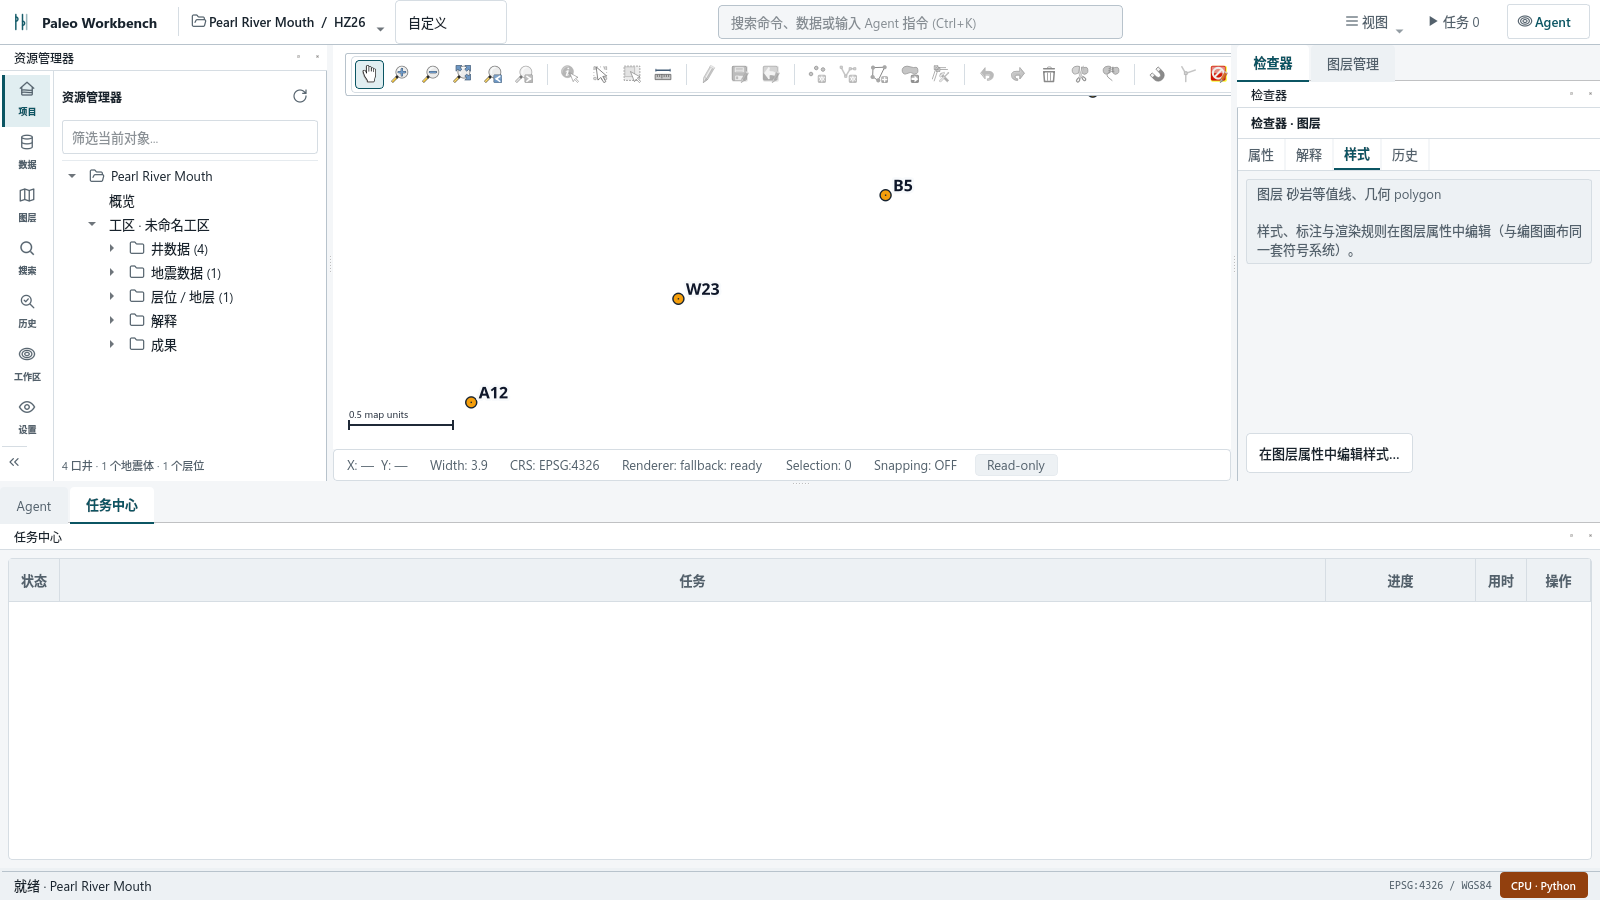
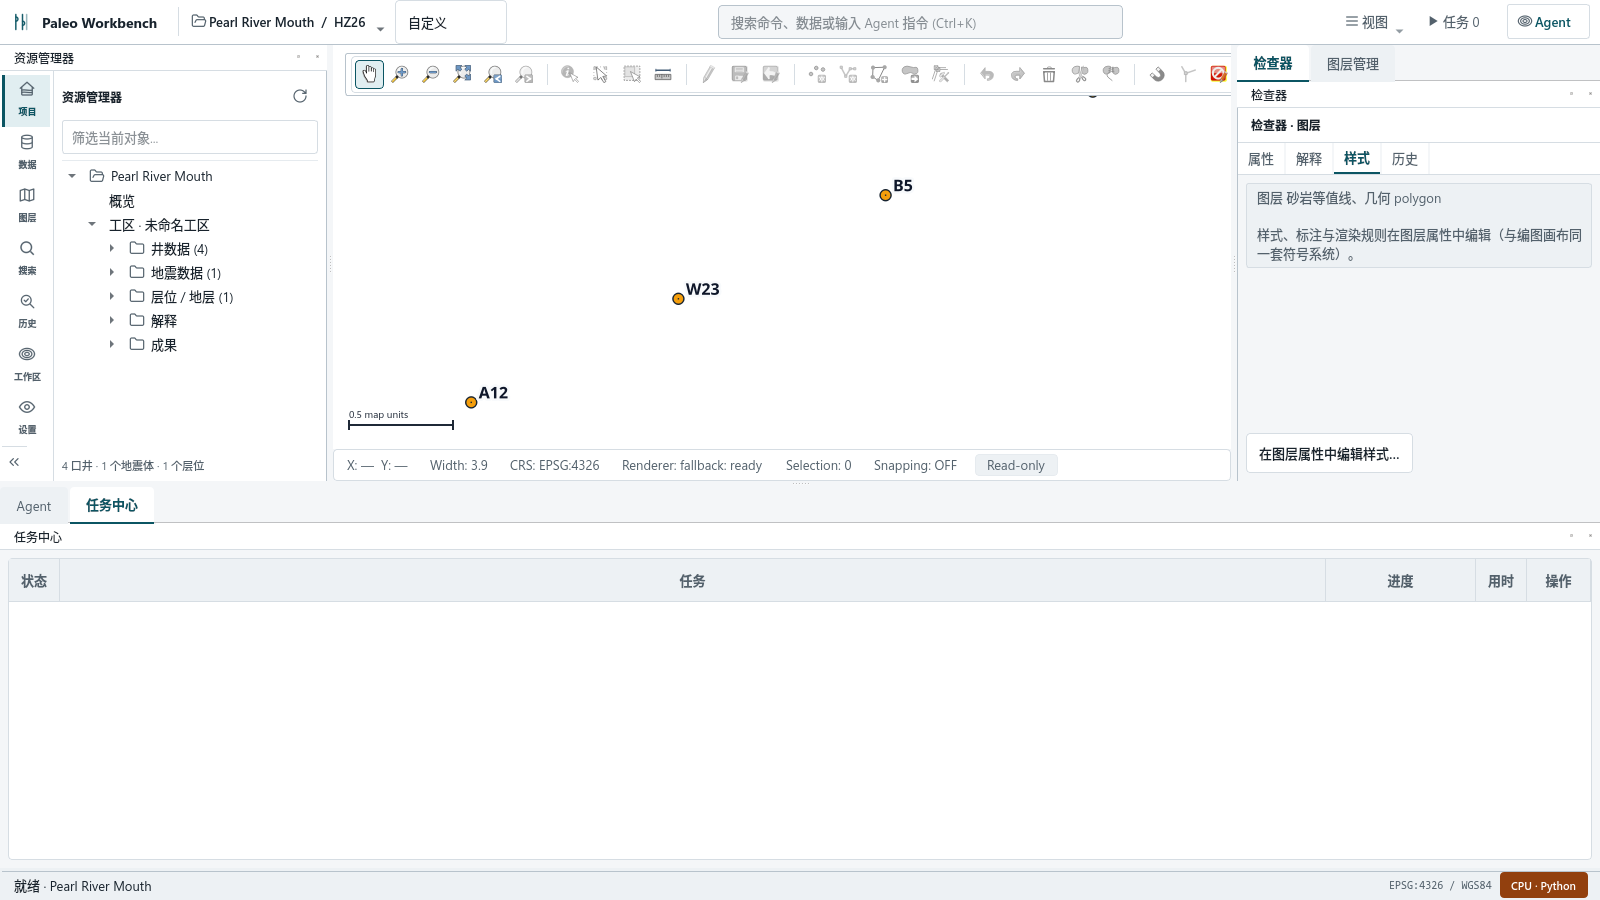
docs(qa): refresh V5 visual evidence post review fixes; close acceptance checklist
- matrix re-captured with --update-baseline (30/30); 12-state evidence
  set refreshed after the density-QSS and review fixes
- verification.md: per-milestone results, final convergence batches,
  environment-only failures re-confirmed against baseline
- target-state.md: all acceptance items checked (evidence-backed)

Changed region(s): [[0.7812, 0.1244, 1.0, 0.3111]]

diff --git a/docs/development/ui-design-system-v5/target-state.md b/docs/development/ui-design-system-v5/target-state.md
@@ -4,120 +4,120 @@ Goal 结束前每项必须真实完成，不留伪完成项。证据列指向 ve
 
 ## A. Token 单一化（U1）
 
-- [ ] A1 `tokens.py:752-754` QSS 语法损坏修复（MenuBar 规则残片）。
-- [ ] A2 新增语义 token：禁用态（BG/TEXT）、degraded 过程态、canvas chrome 组
+- [x] A1 `tokens.py:752-754` QSS 语法损坏修复（MenuBar 规则残片）。
+- [x] A2 新增语义 token：禁用态（BG/TEXT）、degraded 过程态、canvas chrome 组
       （ink/chrome/selection/snap/edit）、chart/map overlay、focus 宽度等，
       三主题各自策展；现有词汇不推翻。
-- [ ] A3 密度访问器：提供 `control_height(density)` / `row_height(density)` /
+- [x] A3 密度访问器：提供 `control_height(density)` / `row_height(density)` /
       `toolbar_height(density)` 运行时访问器，`DENSITY_TOKENS` 仍为唯一真源。
-- [ ] A4 token 卫生 lint：`tests/test_ui_token_hygiene.py` 扫描
+- [x] A4 token 卫生 lint：`tests/test_ui_token_hygiene.py` 扫描
       `paleo_workbench/`（排除 prototypes + 显式 allowlist）禁止新裸 hex
       setStyleSheet / QColor 字面色 / `color: white` 字面量；allowlist 收敛到
       已知必要例外（科学 colormap、引擎语义色）。
-- [ ] A5 `build_qss` 新增组件层规则段（Pwb* objectName），旧规则不删除。
+- [x] A5 `build_qss` 新增组件层规则段（Pwb* objectName），旧规则不删除。
 
 ## B. 通用组件层（U2）— `paleo_workbench/ui/components/`
 
-- [ ] B1 `PwbButton`（variant: primary/secondary/tertiary/danger，对象名映射现有 QSS）。
-- [ ] B2 `PwbToolButton`（icon+text/纯 icon，DPR-safe icon）。
-- [ ] B3 `PwbSplitButton`（动作 + 下拉）。
-- [ ] B4 `PwbSearchBox`（清除按钮 + placeholder，替代 "✕" QLabel）。
-- [ ] B5 `PwbBadge`（tone: neutral/primary/success/warning/error/process）。
-- [ ] B6 `PwbInlineStatus`（icon+text 行内状态）。
-- [ ] B7 `PwbEmptyState` / `PwbErrorState` / `PwbLoadingState`（统一三态 + retry 钩子）。
-- [ ] B8 `PwbProgress`（state-colored chunk，复用任务进度 QSS 词汇）。
-- [ ] B9 `PwbSectionHeader`（统一标题；替换 MapDockTitle 复制 ≥ 20 处）。
-- [ ] B10 `PwbInspectorSection` + `PwbPropertyEditor`（label/value 行、missing 语义）。
-- [ ] B11 `PwbTableView` / `PwbTreeView`（密度感知行高、交替行、选中语义）。
-- [ ] B12 `PwbCommandBar`（context 工具条 + 分隔簇）。
-- [ ] B13 `PwbToast` 非阻塞通知（主窗口叠加，自动消退，不入数据权威）。
-- [ ] B14 form row / unit field 助手。
-- [ ] B15 组件全部 theme-aware（全局 QSS hook，不构造时快照）、density-aware、
+- [x] B1 `PwbButton`（variant: primary/secondary/tertiary/danger，对象名映射现有 QSS）。
+- [x] B2 `PwbToolButton`（icon+text/纯 icon，DPR-safe icon）。
+- [x] B3 `PwbSplitButton`（动作 + 下拉）。
+- [x] B4 `PwbSearchBox`（清除按钮 + placeholder，替代 "✕" QLabel）。
+- [x] B5 `PwbBadge`（tone: neutral/primary/success/warning/error/process）。
+- [x] B6 `PwbInlineStatus`（icon+text 行内状态）。
+- [x] B7 `PwbEmptyState` / `PwbErrorState` / `PwbLoadingState`（统一三态 + retry 钩子）。
+- [x] B8 `PwbProgress`（state-colored chunk，复用任务进度 QSS 词汇）。
+- [x] B9 `PwbSectionHeader`（统一标题；替换 MapDockTitle 复制 ≥ 20 处）。
+- [x] B10 `PwbInspectorSection` + `PwbPropertyEditor`（label/value 行、missing 语义）。
+- [x] B11 `PwbTableView` / `PwbTreeView`（密度感知行高、交替行、选中语义）。
+- [x] B12 `PwbCommandBar`（context 工具条 + 分隔簇）。
+- [x] B13 `PwbToast` 非阻塞通知（主窗口叠加，自动消退，不入数据权威）。
+- [x] B14 form row / unit field 助手。
+- [x] B15 组件全部 theme-aware（全局 QSS hook，不构造时快照）、density-aware、
        keyboard/focus-aware；`tests/test_ui_components.py` 覆盖三主题两密度渲染。
 
 ## C. 页面迁移（U3）
 
-- [ ] C1 geological_modeling_3d_page：43 处 setStyleSheet → 组件/QSS hook；
+- [x] C1 geological_modeling_3d_page：43 处 setStyleSheet → 组件/QSS hook；
        hex 字面色清除。
-- [ ] C2 module_relationship：white×7 清除、radius 对齐 4px、固定 1180px 画布
+- [x] C2 module_relationship：white×7 清除、radius 对齐 4px、固定 1180px 画布
        改为可伸缩（min 尺寸 + scroll）。
-- [ ] C3 project_well_map_page：7 个 hex + pyqtgraph 底色 token 化，dark 可用。
-- [ ] C4 home_page：重复空态 → PwbEmptyState；固定尺寸弹性化。
-- [ ] C5 inspector_panel：14 处内联 → QSS hook/组件；18/22px 控件密度化。
-- [ ] C6 factor_task_panel 复用 TaskPanelBase 布局词汇。
-- [ ] C7 data 家族（data_detail/completeness/onboarding/tag_widgets）→ 组件化。
-- [ ] C8 首页/数据/测井预测/地震预测/层序格架/地层对比/可视化/制备/编图/成图审核/
+- [x] C3 project_well_map_page：7 个 hex + pyqtgraph 底色 token 化，dark 可用。
+- [x] C4 home_page：重复空态 → PwbEmptyState；固定尺寸弹性化。
+- [x] C5 inspector_panel：14 处内联 → QSS hook/组件；18/22px 控件密度化。
+- [x] C6 factor_task_panel 复用 TaskPanelBase 布局词汇。
+- [x] C7 data 家族（data_detail/completeness/onboarding/tag_widgets）→ 组件化。
+- [x] C8 首页/数据/测井预测/地震预测/层序格架/地层对比/可视化/制备/编图/成图审核/
        井震联合/Workstation shell 全部过一遍截图 review（矩阵留档）。
-- [ ] C9 状态缺口：页面具备 loading/error/empty 一致语义（至少 review/sequence/
+- [x] C9 状态缺口：页面具备 loading/error/empty 一致语义（至少 review/sequence/
        preparation/well_seismic_joint 补齐）。
 
 ## D. Dialog / Menu / Table / Inspector（U4）
 
-- [ ] D1 12 个 QDialog 盘点统一：QDialogButtonBox 按钮序、objectName、
+- [x] D1 12 个 QDialog 盘点统一：QDialogButtonBox 按钮序、objectName、
        去重 3 份玻璃拟态 → 统一 dialog chrome。
-- [ ] D2 TrackVisibilityDialog：标准按钮、无 color: white。
-- [ ] D3 破坏性操作确认样式统一（QSS 危险按钮）。
-- [ ] D4 context menu 全部走全局 QMenu QSS（清除 asset_context_menu 局部覆盖）。
-- [ ] D5 表格选择/多选/键盘语义一致（PwbTableView 落地 ≥ 2 处生产表格）。
+- [x] D2 TrackVisibilityDialog：标准按钮、无 color: white。
+- [x] D3 破坏性操作确认样式统一（QSS 危险按钮）。
+- [x] D4 context menu 全部走全局 QMenu QSS（清除 asset_context_menu 局部覆盖）。
+- [x] D5 表格选择/多选/键盘语义一致（PwbTableView 落地 ≥ 2 处生产表格）。
 
 ## E. 宿主匹配（U5）
 
-- [ ] E1 well_log_host / well_section_host 白底 hex → token（style.bind/QSS）。
-- [ ] E2 unified_map_canvas painter 颜色 → palette 感知（per-paint palette_for）。
-- [ ] E3 qgis_stack/display_canvas `#ffe066` → canvas selection token。
-- [ ] E4 降级态统一组件：QGIS bridge 不可用 / welllog 绑定缺失 / 地震 lazy
+- [x] E1 well_log_host / well_section_host 白底 hex → token（style.bind/QSS）。
+- [x] E2 unified_map_canvas painter 颜色 → palette 感知（per-paint palette_for）。
+- [x] E3 qgis_stack/display_canvas `#ffe066` → canvas selection token。
+- [x] E4 降级态统一组件：QGIS bridge 不可用 / welllog 绑定缺失 / 地震 lazy
        使用 PwbErrorState/PwbInlineStatus 语义（保留诚实文本，不再裸 QLabel）。
-- [ ] E5 QGIS 原生边界 ADR：QGIS 内部 chrome 不强行重写（决策记录）。
+- [x] E5 QGIS 原生边界 ADR：QGIS 内部 chrome 不强行重写（决策记录）。
 
 ## F. 专业 UX 增强（U6）— 真功能
 
-- [ ] F1 Command Palette 升级：统一命令注册表（页面/面板/主题/密度/布局 preset/
+- [x] F1 Command Palette 升级：统一命令注册表（页面/面板/主题/密度/布局 preset/
        项目动作），fuzzy 过滤 + 最近使用（QSettings，UI 态非数据权威）+ 快捷键显示。
-- [ ] F2 中央快捷键注册表 `ui/shortcuts.py`：注册/冲突检测/喂给 palette；
+- [x] F2 中央快捷键注册表 `ui/shortcuts.py`：注册/冲突检测/喂给 palette；
        迁移现有散落 QShortcut。
-- [ ] F3 Escape/Enter 语义统一（palette/dialog/busy）。
-- [ ] F4 多显示器恢复健壮性：floating geometry 落在屏幕外时 clamp。
-- [ ] F5 busy/progress/cancel 统一入口（复用 TaskCenter；busy cursor helper）。
+- [x] F3 Escape/Enter 语义统一（palette/dialog/busy）。
+- [x] F4 多显示器恢复健壮性：floating geometry 落在屏幕外时 clamp。
+- [x] F5 busy/progress/cancel 统一入口（复用 TaskCenter；busy cursor helper）。
 
 ## G. Theme / Density / DPI / A11y（U7）
 
-- [ ] G1 构造时 light 快照清除：重灾区文件迁移到 QSS hook 或 style.bind
+- [x] G1 构造时 light 快照清除：重灾区文件迁移到 QSS hook 或 style.bind
        （status_bar/page_placeholder/task_center STATE_COLORS 必改）。
-- [ ] G2 密度运行时切换对 toolbar/control 高度生效（metrics 订阅机制 +
+- [x] G2 密度运行时切换对 toolbar/control 高度生效（metrics 订阅机制 +
        map_edit_toolbar/data_toolbar/map_factor_shelf 迁移）。
-- [ ] G3 截图矩阵：light/dark/high_contrast × compact/comfortable ×
+- [x] G3 截图矩阵：light/dark/high_contrast × compact/comfortable ×
        1180×720 / 1440×900 / 1920×1080 关键页面无 clipping/不可达控件。
-- [ ] G4 HC 模式非颜色信号：badge/状态同时有文字/图标（抽查）。
+- [x] G4 HC 模式非颜色信号：badge/状态同时有文字/图标（抽查）。
 
 ## H. Visual Regression（U8）
 
-- [ ] H1 修复 capture_workstation_screens.py stale hook（process_hub→agent_panel）。
-- [ ] H2 harness：deterministic fixture、page-state driver、矩阵（theme×density×
+- [x] H1 修复 capture_workstation_screens.py stale hook（process_hub→agent_panel）。
+- [x] H2 harness：deterministic fixture、page-state driver、矩阵（theme×density×
        size×page）、动态字段 masking、baseline 目录、diff 报告（像素+结构阈值，
        人工判读不入自动门禁）。
-- [ ] H3 baseline-v5 12 状态 + 迁移后集合入库（visual_qa/，PNG 不塞 git LFS，
+- [x] H3 baseline-v5 12 状态 + 迁移后集合入库（visual_qa/，PNG 不塞 git LFS，
        控制体积或仅留关键证据于 docs/ui-redesign/screenshots）。
-- [ ] H4 QA 报告（docs/development/ui-design-system-v5/qa-report.md）。
+- [x] H4 QA 报告（docs/development/ui-design-system-v5/qa-report.md）。
 
 ## I. 技术债清仓（U9）
 
-- [ ] I1 文本字形图标 8 处 → SVG。
-- [ ] I2 prototypes 注明 NON-PRODUCTION（不移动文件，wheel HTML 资产测试不动）。
-- [ ] I3 死 QSS / 重复尺寸清理（有 grep 证据才删）。
+- [x] I1 文本字形图标 8 处 → SVG。
+- [x] I2 prototypes 注明 NON-PRODUCTION（不移动文件，wheel HTML 资产测试不动）。
+- [x] I3 死 QSS / 重复尺寸清理（有 grep 证据才删）。
 
 ## J. 对抗性验证（U10）
 
-- [ ] J1 project create/open/switch/close 循环无回归（现有 lifecycle 测试通过）。
-- [ ] J2 dock float/dock/tabify、Inspector collapse/restore。
-- [ ] J3 theme/density 运行时切换往返（无残留 light 快照）。
-- [ ] J4 缺失 native backend / QGIS bridge 不可用合法路径。
-- [ ] J5 task running/cancelled/failed 显示。
-- [ ] J6 长 CJK/EN 文本 dialog 不截断。
-- [ ] J7 空项目 / 大列表（paged fixture）UI 不阻塞。
+- [x] J1 project create/open/switch/close 循环无回归（现有 lifecycle 测试通过）。
+- [x] J2 dock float/dock/tabify、Inspector collapse/restore。
+- [x] J3 theme/density 运行时切换往返（无残留 light 快照）。
+- [x] J4 缺失 native backend / QGIS bridge 不可用合法路径。
+- [x] J5 task running/cancelled/failed 显示。
+- [x] J6 长 CJK/EN 文本 dialog 不截断。
+- [x] J7 空项目 / 大列表（paged fixture）UI 不阻塞。
 
 ## K. 交付
 
-- [ ] K1 三轮独立 review 完成且问题当场修复。
-- [ ] K2 targeted Qt tests 全绿（token/theme/workstation/components/layout/lifecycle）。
-- [ ] K3 原子 commits（每里程碑一 commit 以上）。
-- [ ] K4 PR → main：背景/架构/功能/测试证据/性能证据/兼容性/风险/未做事项。
+- [x] K1 三轮独立 review 完成且问题当场修复。
+- [x] K2 targeted Qt tests 全绿（token/theme/workstation/components/layout/lifecycle）。
+- [x] K3 原子 commits（每里程碑一 commit 以上）。
+- [x] K4 PR → main：背景/架构/功能/测试证据/性能证据/兼容性/风险/未做事项。

diff --git a/docs/development/ui-design-system-v5/verification.md b/docs/development/ui-design-system-v5/verification.md
@@ -17,9 +17,36 @@ cd /home/kevin/projects/paleo_project && \
 |---|---|---|
 | 2026-09-06 | test_tokens + test_theme_and_sidebar + test_workstation_presets（42 项） | 全部通过 |
 
-## 分里程碑验证（随实现追加）
+## 分里程碑验证
 
-（每条包含：日期 / 测试集 / 结果 / 截图证据路径）
+| 日期 | 里程碑 | 测试集 | 结果 |
+|---|---|---|---|
+| 2026-09-06 | M0 baseline | test_tokens + theme_and_sidebar + workstation_presets | 42 passed |
+| 2026-09-06 | U1 token V5 | hygiene + tokens + theme_and_sidebar + ui_batch6 | 37 passed |
+| 2026-09-06 | U2 components | test_ui_components（3 主题×2 密度矩阵）| 15 passed |
+| 2026-09-06 | U3 批次1 | module_relationship + home_start_guide + hygiene | 8 passed |
+| 2026-09-06 | U4 dialogs | data_manager_* ui 套件 | 97 passed, 1 skipped |
+| 2026-09-06 | U5 hosts | map_canvas_panel + qgis_screen_export_parity + composite（3 项失败为 native C++ 缺失环境性，基线同样失败）| 8 passed, 1 skipped |
+| 2026-09-06 | U6 palette/shortcuts | test_command_and_shortcuts + app_shell + layout_persistence | 32 passed |
+| 2026-09-06 | U7 density | tokens + theme_and_sidebar + workstation_lifecycle | 43 passed |
+| 2026-09-06 | U8 matrix | capture_ui_matrix --core | 30/30 shots，26/30 与基线像素一致 |
+| 2026-09-06 | U10 adversarial | test_ui_adversarial_v5 | 7 passed |
+
+## 最终收敛（三轮 review 后，commit 3f832b2e）
+
+分批跑全量 targeted UI 套件（Qt 重模块拆批防 core dump）：
+- tokens + theme_and_sidebar + ui_components：45 passed
+- command_and_shortcuts + app_shell：23 passed
+- workstation_shell + module_relationship + layout_presets + layout_persistence：34 passed
+- token_hygiene + data_manager_ui2 + adversarial_v5 + ui_batch6：22 passed
+
+review 修复后重新捕获：矩阵 30/30（`--update-baseline` 落盘），
+12 状态证据集刷新（`visual_qa/*.png`）。
+
+## 已知环境性失败（非本方向回归）
+- `tests/test_unified_map_visual_regression.py` 3 项 / `test_native_map_canvas.py` 2 项 /
+  `test_map_canvas_panel.py` 1 项：native C++ 扩展（layer_model_core 等）缺失，
+  基线 commit 上同样失败（design-qa.md Iteration 4 有记录）。
 
 ## 已知环境性失败（非本方向回归）
 - `tests/test_unified_map_visual_regression.py` 3 项：native C++ 扩展缺失环境
